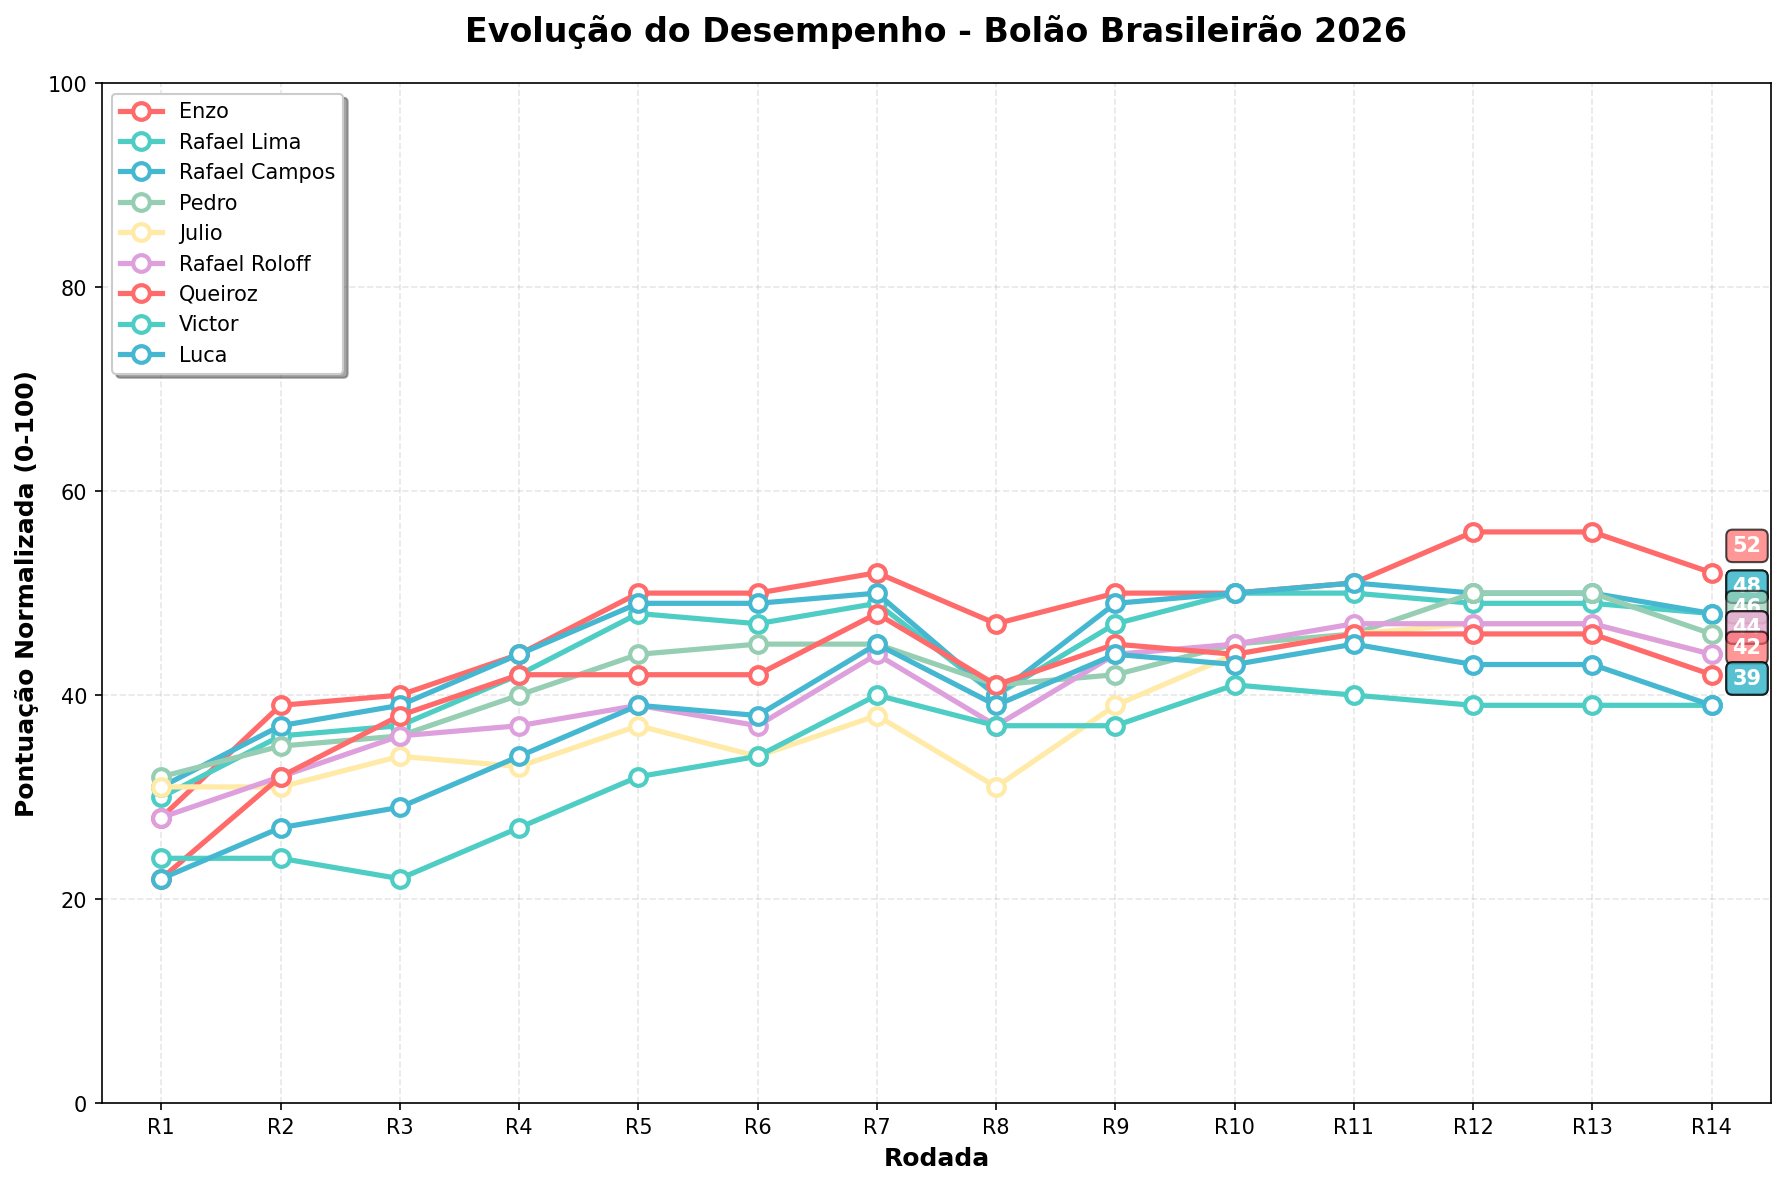
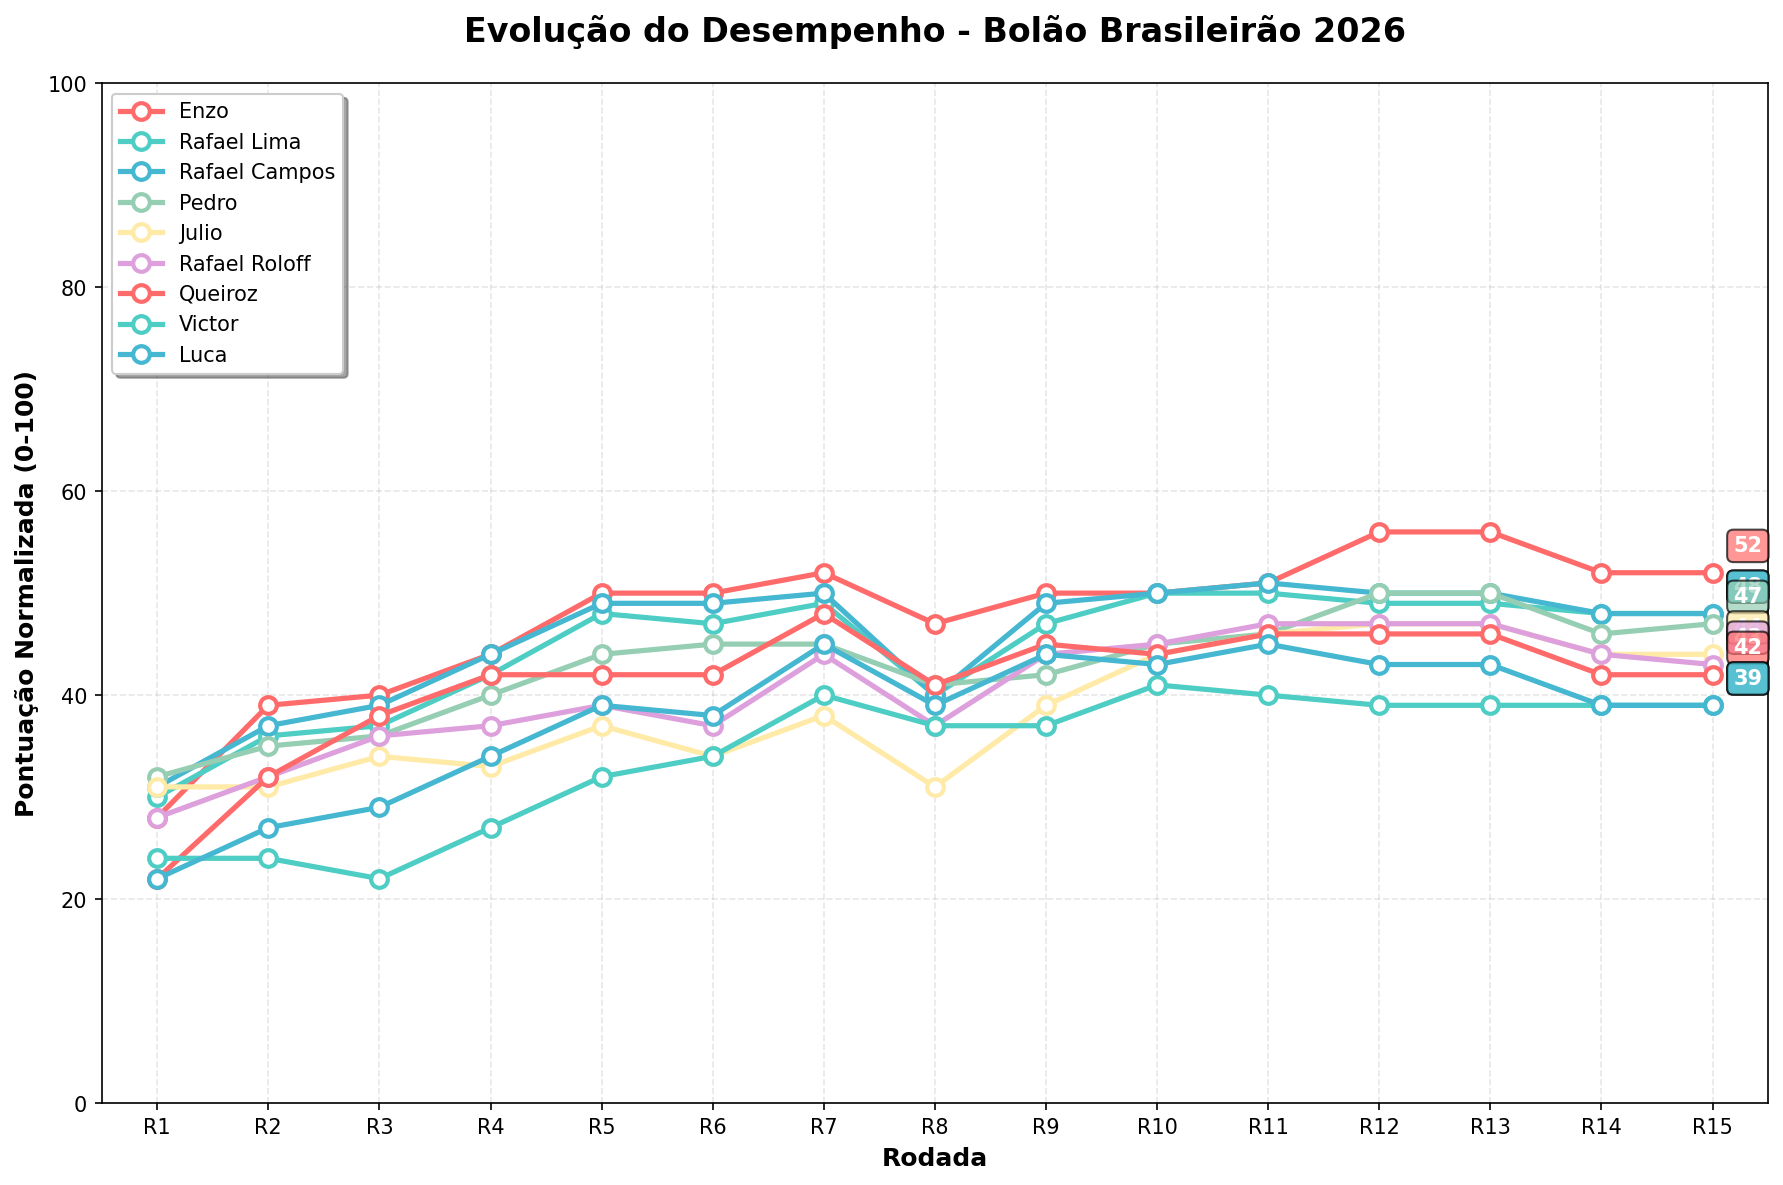
Atualizacao automatica - 10/05/2026 11:00:04,30

diff --git a/README.md b/README.md
@@ -2,7 +2,7 @@
 
 ## 🏆 Resultados Atuais
 
-**Última Atualização:** 2026-05-04 11:10:53
+**Última Atualização:** 2026-05-10 11:00:03
 
 | Time | Real | Enzo | Rafael Lima | Rafael Campos | Pedro | Julio | Rafael Roloff | Queiroz | Victor | Luca |
 |------|------|------|------|------|------|------|------|------|------|------|
@@ -15,27 +15,27 @@
 | Bragantino | 7 | 6°(19p) | 10°(17p) | 10°(17p) | 9°(18p) | 10°(17p) | 13°(14p) | 18°(9p) | 15°(12p) | 13°(14p) |
 | Coritiba | 8 | 15°(13p) | 16°(12p) | 16°(12p) | 19°(9p) | 19°(9p) | 14°(14p) | 12°(16p) | 20°(8p) | 20°(8p) |
 | Vitória | 9 | 18°(11p) | 18°(11p) | 18°(11p) | 17°(12p) | 16°(13p) | 18°(11p) | 19°(10p) | 17°(12p) | 18°(11p) |
-| Botafogo | 10 | 10°(20p) | 8°(18p) | 9°(19p) | 5°(15p) | 6°(16p) | 7°(17p) | 11°(19p) | 5°(15p) | 11°(19p) |
-| Atlético-MG | 11 | 12°(19p) | 5°(14p) | 5°(14p) | 13°(18p) | 4°(13p) | 4°(13p) | 9°(18p) | 2°(11p) | 4°(13p) |
-| Internacional | 12 | 14°(18p) | 13°(19p) | 15°(17p) | 14°(18p) | 14°(18p) | 15°(17p) | 14°(18p) | 6°(14p) | 15°(17p) |
-| Vasco | 13 | 9°(16p) | 15°(18p) | 14°(19p) | 10°(17p) | 11°(18p) | 11°(18p) | 10°(17p) | 12°(19p) | 9°(16p) |
-| Grêmio | 14 | 7°(13p) | 7°(13p) | 6°(12p) | 6°(12p) | 18°(16p) | 12°(18p) | 5°(11p) | 4°(10p) | 6°(12p) |
-| Cruzeiro | 15 | 3°(8p) | 2°(7p) | 2°(7p) | 1°(6p) | 3°(8p) | 3°(8p) | 2°(7p) | 7°(12p) | 2°(7p) |
+| Cruzeiro | 10 | 3°(13p) | 2°(12p) | 2°(12p) | 1°(11p) | 3°(13p) | 3°(13p) | 2°(12p) | 7°(17p) | 2°(12p) |
+| Internacional | 11 | 14°(17p) | 13°(18p) | 15°(16p) | 14°(17p) | 14°(17p) | 15°(16p) | 14°(17p) | 6°(15p) | 15°(16p) |
+| Botafogo | 12 | 10°(18p) | 8°(16p) | 9°(17p) | 5°(13p) | 6°(14p) | 7°(15p) | 11°(19p) | 5°(13p) | 11°(19p) |
+| Atlético-MG | 13 | 12°(19p) | 5°(12p) | 5°(12p) | 13°(20p) | 4°(11p) | 4°(11p) | 9°(16p) | 2°(9p) | 4°(11p) |
+| Vasco | 14 | 9°(15p) | 15°(19p) | 14°(20p) | 10°(16p) | 11°(17p) | 11°(17p) | 10°(16p) | 12°(18p) | 9°(15p) |
+| Grêmio | 15 | 7°(12p) | 7°(12p) | 6°(11p) | 6°(11p) | 18°(17p) | 12°(17p) | 5°(10p) | 4°(9p) | 6°(11p) |
 | Santos | 16 | 11°(15p) | 12°(16p) | 13°(17p) | 11°(15p) | 12°(16p) | 9°(13p) | 13°(17p) | 11°(15p) | 7°(11p) |
 | Corinthians | 17 | 8°(11p) | 9°(12p) | 8°(11p) | 8°(11p) | 9°(12p) | 5°(8p) | 6°(9p) | 8°(11p) | 10°(13p) |
 | Mirassol | 18 | 13°(15p) | 11°(13p) | 11°(13p) | 12°(14p) | 8°(10p) | 10°(12p) | 8°(10p) | 14°(16p) | 12°(14p) |
 | Remo | 19 | 20°(19p) | 20°(19p) | 20°(19p) | 16°(17p) | 13°(14p) | 20°(19p) | 16°(17p) | 19°(20p) | 16°(17p) |
 | Chapecoense | 20 | 19°(19p) | 19°(19p) | 19°(19p) | 20°(20p) | 20°(20p) | 19°(19p) | 20°(20p) | 18°(18p) | 19°(19p) |
-| **TOTAL** | | **308** | **298** | **298** | **294** | **290** | **290** | **286** | **280** | **280** |
+| **TOTAL** | | **308** | **298** | **298** | **296** | **290** | **288** | **286** | **280** | **280** |
 
 ### 🏅 Classificação Atual (pontuação normalizada 0-100)
 
 🥇 **Enzo**: 52 pontos<br>
 🥈 **Rafael Lima**: 48 pontos<br>
 🥉 **Rafael Campos**: 48 pontos<br>
-4. **Pedro**: 46 pontos<br>
+4. **Pedro**: 47 pontos<br>
 5. **Julio**: 44 pontos<br>
-6. **Rafael Roloff**: 44 pontos<br>
+6. **Rafael Roloff**: 43 pontos<br>
 7. **Queiroz**: 42 pontos<br>
 8. **Victor**: 39 pontos<br>
 9. **Luca**: 39 pontos<br>
@@ -46,7 +46,6 @@
 
 | Rodada | Enzo | Rafael Lima | Rafael Campos | Pedro | Julio | Rafael Roloff | Queiroz | Victor | Luca |
 |-------|-------|-------|-------|-------|-------|-------|-------|-------|-------|
-| R5 | 50 | 48 | 49 | 44 | 37 | 39 | 42 | 32 | 39 |
 | R6 | 50 | 47 | 49 | 45 | 34 | 37 | 42 | 34 | 38 |
 | R7 | 52 | 49 | 50 | 45 | 38 | 44 | 48 | 40 | 45 |
 | R8 | 47 | 40 | 40 | 41 | 31 | 37 | 41 | 37 | 39 |
@@ -56,17 +55,18 @@
 | R12 | 56 | 49 | 50 | 50 | 47 | 47 | 46 | 39 | 43 |
 | R13 | 56 | 49 | 50 | 50 | 47 | 47 | 46 | 39 | 43 |
 | R14 | 52 | 48 | 48 | 46 | 44 | 44 | 42 | 39 | 39 |
+| R15 | 52 | 48 | 48 | 47 | 44 | 43 | 42 | 39 | 39 |
 
 **Tendência (últimas 2 medições):**
-- **Enzo**: 📉 -4
-- **Rafael Lima**: 📉 -1
-- **Rafael Campos**: 📉 -2
-- **Pedro**: 📉 -4
-- **Julio**: 📉 -3
-- **Rafael Roloff**: 📉 -3
-- **Queiroz**: 📉 -4
+- **Enzo**: ➡️ =0
+- **Rafael Lima**: ➡️ =0
+- **Rafael Campos**: ➡️ =0
+- **Pedro**: 📈 +1
+- **Julio**: ➡️ =0
+- **Rafael Roloff**: 📉 -1
+- **Queiroz**: ➡️ =0
 - **Victor**: ➡️ =0
-- **Luca**: 📉 -4
+- **Luca**: ➡️ =0
 
 ## 🎯 Sistema de Pontuação
 